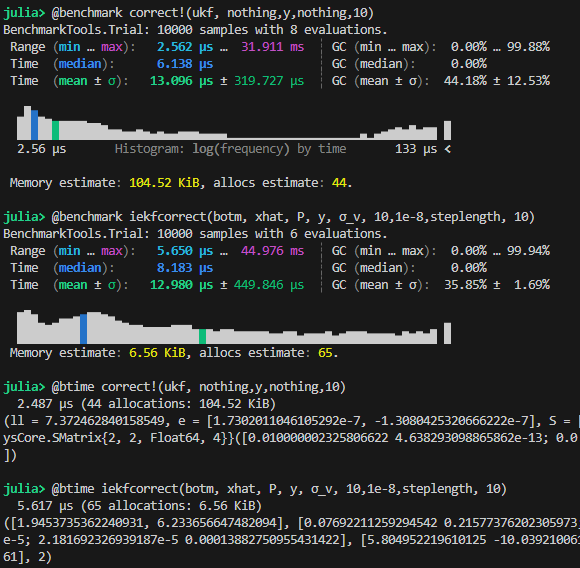
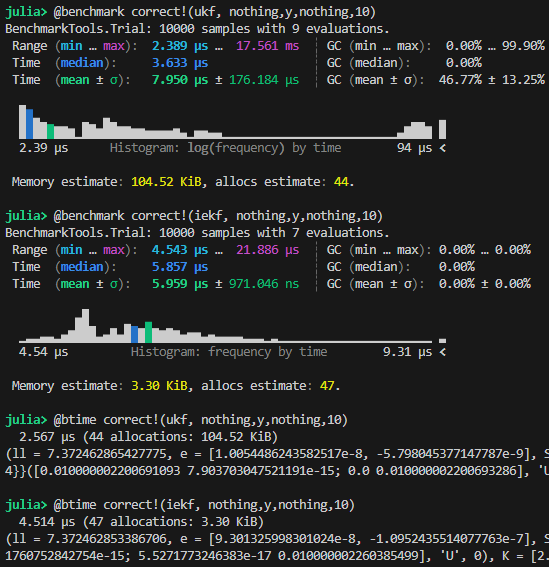
switching to LLPF implementation of IEKF

diff --git a/readme.md b/readme.md
@@ -1,11 +1,6 @@
 # IEKF vs UKF
 This is a temporary repo to compare IEKF and UKF.
 
-## TLDR 
-When dynamics are linear, use IEKF.
-              When dynamics are nonlinear use UKF. \
-               UKF is more robust in prediction step, IEKF is more accurate in correction step of the filter. \
-              IEKF correction step is 2 times slower than UKF correction step. (It needs to be optimized.)
 
 ## Test models
 The filters will be tested on examples from article at:
@@ -60,7 +55,7 @@ y &= \frac{x^2}{20} + \nu_k \newline
 \end{align}
 ```
 Performance: \
-When dynamics are nonlinear, UKF is more robust to process noise and perform generally better than IEKF unless the noise covariances are small. When process noise is low, UKF is outperformed by IEKF. Computationally IEKF is comparable to UKF. I believe it could further be optimized.
+In the example, when dynamics are nonlinear, UKF is more robust to process noise and perform generally better than IEKF unless the noise covariances are small. When process noise is low, UKF is outperformed by IEKF. Computationally IEKF is comparable to UKF.
 
 
 Q = 0.01, R=0.1\
@@ -75,4 +70,4 @@ Q = 0.1, R=0.1\
 
 
 Computational load:
-![ugm benchmark time](figs/ugm_computational.png)
+![ugm benchmark time](figs/ugm_computational.png)![alt text](image.png)
